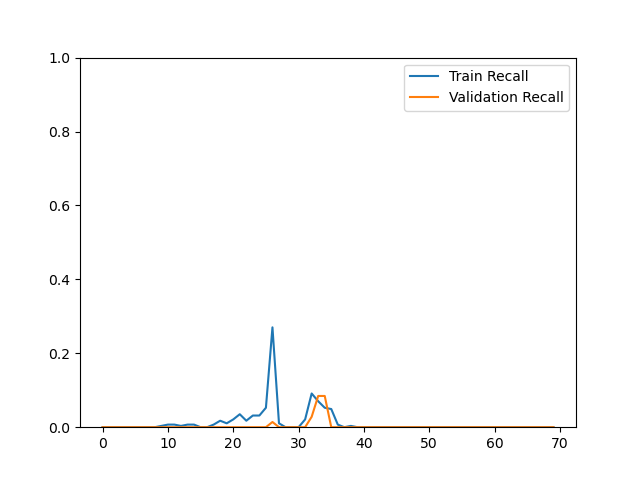
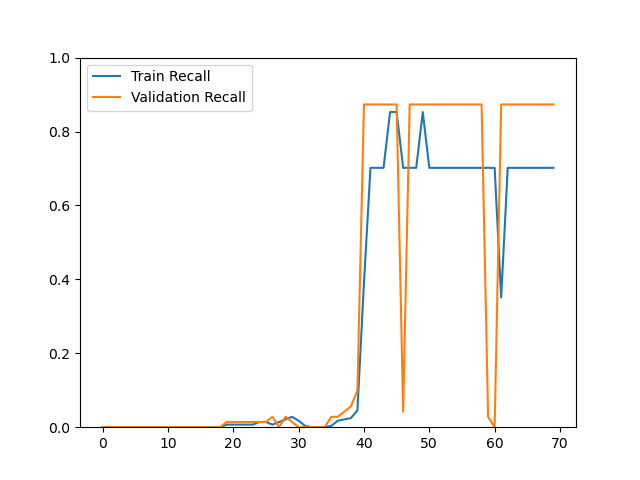
LSTM with layer 4 70 epoch .002 learning rates .5 dropout

Changed region(s): [[0.25, 0.125, 0.9062, 0.9062], [0.125, 0.125, 0.4062, 0.2188]]

diff --git a/LSTM.py b/LSTM.py
@@ -286,7 +286,7 @@ def formatAndFold():
     # critical hyperparameters
     epoch = 70
     ksplits = 5
-    learning_rate = 0.001
+    learning_rate = 0.002
 
     # Initialize the model and optimizer
     model = LSTM(1024, 4)
